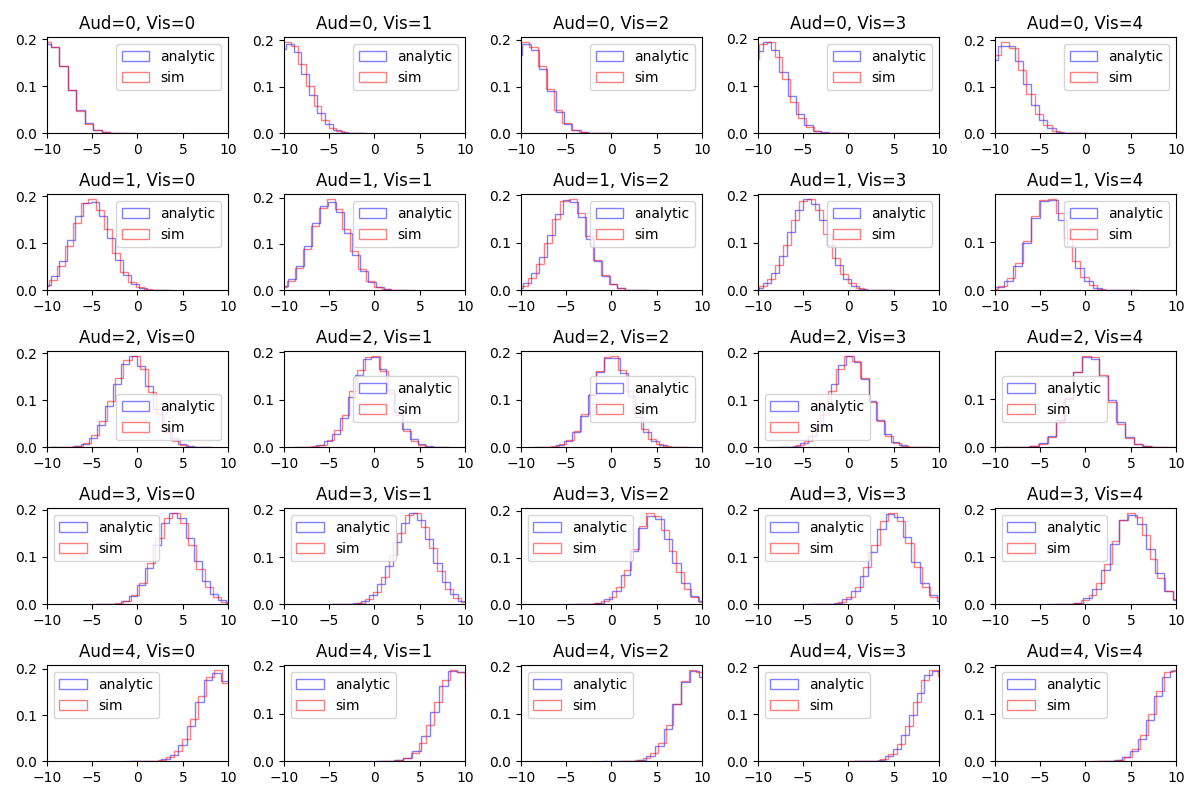
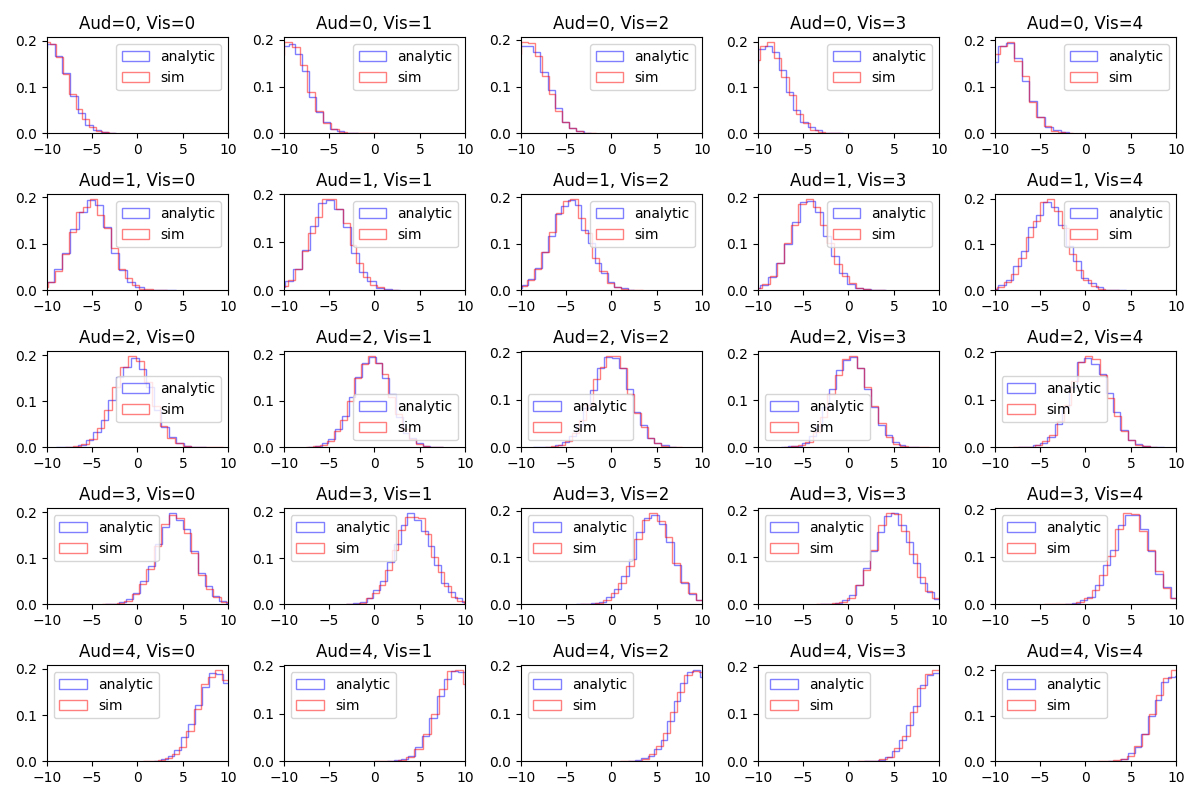
fix simulation of likelihood common cause

diff --git a/gaussian_fusion_test.py b/gaussian_fusion_test.py
@@ -4,7 +4,7 @@ import matplotlib.pyplot as plt
 import causal_inference
 import gaussian_causal_inference
 
-num_sim = 1000
+num_sim = 10000
 stimuli_values = np.linspace(-10, 10, 5)
 s_vs, s_as = np.meshgrid(stimuli_values, stimuli_values, indexing='ij')
 
@@ -18,8 +18,7 @@ x_v = norm.rvs(loc=s_vs, scale=sigma_v, size=(num_sim, stimuli_values.size, stim
 x_a = norm.rvs(loc=s_as, scale=sigma_a, size=(num_sim, stimuli_values.size, stimuli_values.size))
 
 model = gaussian_causal_inference.GaussianCausalInference()
-sim_model = gaussian_causal_inference.GaussianCausalInference(simulate=False)
-fused_est = sim_model.fusion_estimate(x_v, x_a, sigma_v, sigma_a, mu_p, sigma_p)
+sim_model = gaussian_causal_inference.GaussianCausalInference(simulate=True)
 fused_est_mu, fused_est_sigma  = model.fusion_posterior_params(s_a=s_as, s_v=s_vs, 
                                                                            sigma_a=sigma_a, 
                                                                            sigma_v=sigma_v, 
@@ -27,12 +26,25 @@ fused_est_mu, fused_est_sigma  = model.fusion_posterior_params(s_a=s_as, s_v=s_v
                                                                            sigma_p=sigma_p)
 fused_est_analytic = norm.rvs(loc=fused_est_mu, scale=fused_est_sigma,
                             size=(num_sim, stimuli_values.size, stimuli_values.size))
-data_a = fused_est_analytic[:, 1,1]
-data_b = fused_est[:, 1,1]
-plt.hist(data_a, bins=20, label='analytic', alpha=0.5, edgecolor='b', histtype='step', density=True)
-plt.hist(data_b, bins=20, label='sim', alpha=0.5, edgecolor='r', histtype='step', density=True)
+fused_est = model.fusion_estimate(x_v, x_a, sigma_v, sigma_a, mu_p, sigma_p)
+plt.hist(fused_est_analytic[:, 1,1], bins=20, label='analytic', alpha=0.5, edgecolor='b', histtype='step', density=True)
+plt.hist(fused_est[:, 1,1], bins=20, label='sim', alpha=0.5, edgecolor='r', histtype='step', density=True)
 plt.legend()
 plt.show()
+
+likelihood_common_cause = model.likelihood_common_cause(x_v=x_v, x_a=x_a, sigma_v=sigma_v, 
+                                                      sigma_a=sigma_a, mu_p=mu_p, sigma_p=sigma_p)
+sim_likelihood_common_cause = sim_model.likelihood_common_cause(x_v=x_v, x_a=x_a, 
+                                                                sigma_v=sigma_v, sigma_a=sigma_a,
+                                                                mu_p=mu_p, sigma_p=sigma_p)
+
+diff_likelihood_common_cause=likelihood_common_cause-sim_likelihood_common_cause
+print(f'Max difference between analytic and simulated likelihood: {max(abs(diff_likelihood_common_cause))}')
+plt.hist(likelihood_common_cause[:, 1,1], bins=20, label='analytic', alpha=0.5, edgecolor='b', histtype='step', density=True)
+plt.hist(sim_likelihood_common_cause[:, 1, 1], bins=20, label='sim', alpha=0.5, edgecolor='r', histtype='step', density=True)
+plt.legend()
+plt.show()
+
 
 causal_inference.plot_histograms(a=fused_est_analytic, b=fused_est,
                                           x='Aud', y='Vis', 

diff --git a/gaussian_causal_inference.py b/gaussian_causal_inference.py
@@ -8,21 +8,19 @@ class GaussianCausalInference(causal_inference.CausalInference):
     def __init__(self, distribution='gaussian', simulate=False):
         super().__init__(distribution)
         self.simulate = simulate
-        self.s_domain = np.linspace(-10, 10, 10000).reshape(1, 1, 1, -1)
+        self.s_domain = np.linspace(-10, 10, 1000).reshape(1, 1, 1, -1)
 
     def segregation_estimate(self, x, mu_p, sigma, sigma_p):
         return (x * sigma_p**2 + mu_p * sigma**2) / (sigma**2 + sigma_p**2)
     
-    def sim_fusion_estimate(self, x_a, x_v, sigma_a, sigma_v, mu_p, sigma_p):
-        # res = sum_{s in s_domain} N(x_a; s, sigma_a) * N(x_a; s, sigma_a) * p(s)
+    def sim_likelihood_common_cause(self, x_v, x_a, sigma_v, sigma_a, mu_p, sigma_p):
+        # res = \int_{s in s_domain} N(x_a; s, sigma_a) * N(x_a; s, sigma_a) * p(s)
         p_x_v_given_s = norm.pdf(x=x_a[..., np.newaxis], loc=self.s_domain, scale=sigma_a)
         p_x_a_given_s = norm.pdf(x=x_v[..., np.newaxis], loc=self.s_domain, scale=sigma_v)
         p_s = norm.pdf(x=self.s_domain, loc=mu_p, scale=sigma_p)
-        return np.sum(p_x_v_given_s*p_x_a_given_s*p_s, axis=-1)
+        return np.trapz(p_x_v_given_s*p_x_a_given_s*p_s, axis=-1, x=self.s_domain)
 
-    def fusion_estimate(self, x_a, x_v, sigma_a, sigma_v, mu_p, sigma_p, simulate=False, return_sigma=False):
-        if self.simulate:
-            return self.sim_fusion_estimate(x_a, x_v, sigma_a, sigma_v, mu_p, sigma_p)
+    def fusion_estimate(self, x_a, x_v, sigma_a, sigma_v, mu_p, sigma_p, return_sigma=False):
         num = x_a * ((sigma_v*sigma_p)**2) + x_v * ((sigma_a*sigma_p)**2) + mu_p * ((sigma_v*sigma_a)**2)
         denom = ((sigma_v*sigma_p)**2) + ((sigma_a*sigma_p)**2) + ((sigma_v*sigma_a)**2)
         if return_sigma:
@@ -39,6 +37,8 @@ class GaussianCausalInference(causal_inference.CausalInference):
         return fused_est_mu, fused_est_sigma
 
     def likelihood_common_cause(self, x_v, x_a, sigma_v, sigma_a, mu_p, sigma_p):
+        if self.simulate:
+            return self.sim_likelihood_common_cause(x_v, x_a, sigma_v, sigma_a, mu_p, sigma_p)
         var_common = sigma_v**2 * sigma_a**2 + sigma_v**2 * sigma_p**2 + sigma_a**2 * sigma_p**2
         exp_common = ((x_v - x_a)**2 * sigma_p**2 + (x_v - mu_p)**2 * sigma_a**2 + (x_a - mu_p)**2 * sigma_v**2) / (2 * var_common)
         return np.exp(-exp_common) / (2 * np.pi * np.sqrt(var_common))
